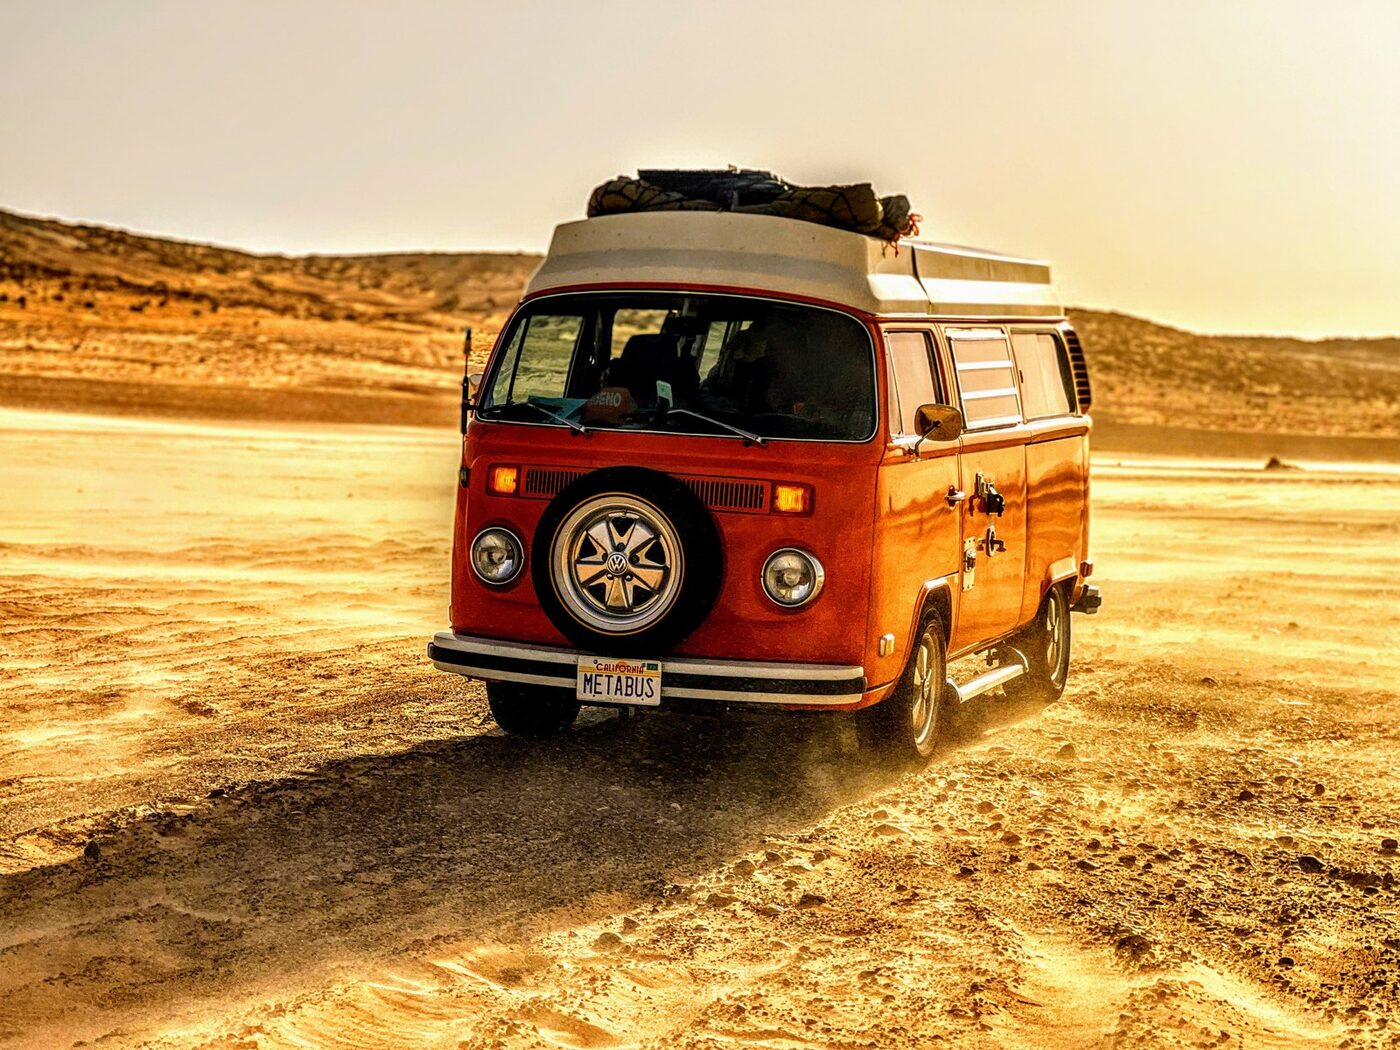
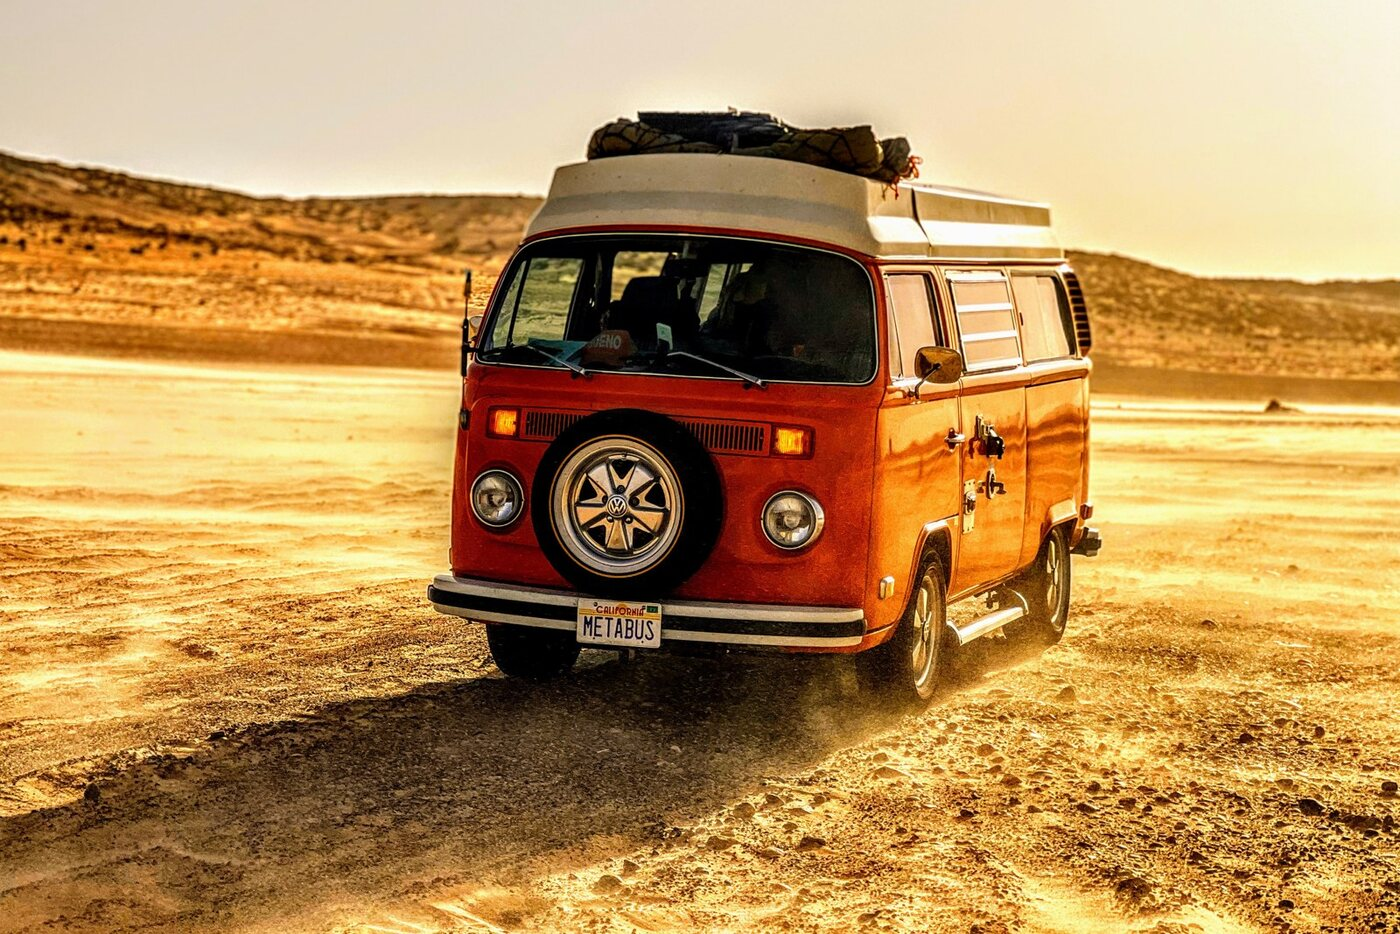
Van picker: matching front three-quarter shots (restyled Syncro in forest river, Eurovan Camper on the coast)

diff --git a/va.js b/va.js
@@ -12,7 +12,7 @@ const VANS = [
 ];
 const FAMS = [
   {key:'bus', name:'Bus', yrs:'1968–1979', img:'van-bus.jpg', alt:'Orange late Bay Westfalia, METABUS, in the desert'},
-  {key:'vanagon', name:'Vanagon', yrs:'1980–1992', img:'van-vanagon.jpg', alt:'Green Vanagon Syncro with roof light bar and bull bar fording a forest river'},
+  {key:'vanagon', name:'Vanagon', yrs:'1980–1992', img:'van-vanagon.jpg', alt:'Olive drab Vanagon Syncro with yellow roof lights and bull bar fording a forest river'},
   {key:'eurovan', name:'Eurovan', yrs:'1992–2003', img:'van-eurovan.jpg', alt:'Blue Eurovan Westfalia high-top'},
 ];
 // System → count per van tag (real catalog counts)

diff --git a/README.md b/README.md
@@ -34,9 +34,9 @@ Van photos from Wikimedia Commons:
 - `van-aircooled.jpg` — 1981 Volkswagen Transporter Westfalia, Riley from Christchurch, New Zealand, CC BY 2.0
 - `van-diesel.jpg` — 1984 Volkswagen T3 Westfalia Joker, Niels de Wit, CC BY 2.0
 - `van-19.jpg` — Volkswagen Westfalia (Typ 2 - T3), Spanish Coches, CC BY 2.0
-- `van-vanagon.jpg` — the owner's Vanagon Syncro, placed in a forest river scene with an image model (from his own photo)
+- `van-vanagon.jpg` — the owner's Vanagon Syncro, restyled and placed in a forest river scene with an image model (from his own photo)
 - `van-21.jpg` — 1986 Volkswagen T3 Westfalia Joker, Niels de Wit, CC BY 2.0
-- `van-eurovan.jpg` — VW Eurovan EVC (Eurovan Camper), Cocoablini, CC BY-SA 4.0
+- `van-eurovan.jpg` — Eurovan Camper on the Pacific coast, made with an image model from a Wikimedia reference (VW Eurovan EVC, Cocoablini, CC BY-SA 4.0)
 - `story.jpg` — VW Vans + old Chevrolet truck, dave_7 from Lethbridge, Canada, CC BY 2.0
 - `camper.jpg` — Volkswagen Westfalia (Typ 2 - T3) interior, Spanish Coches, CC BY 2.0
 
